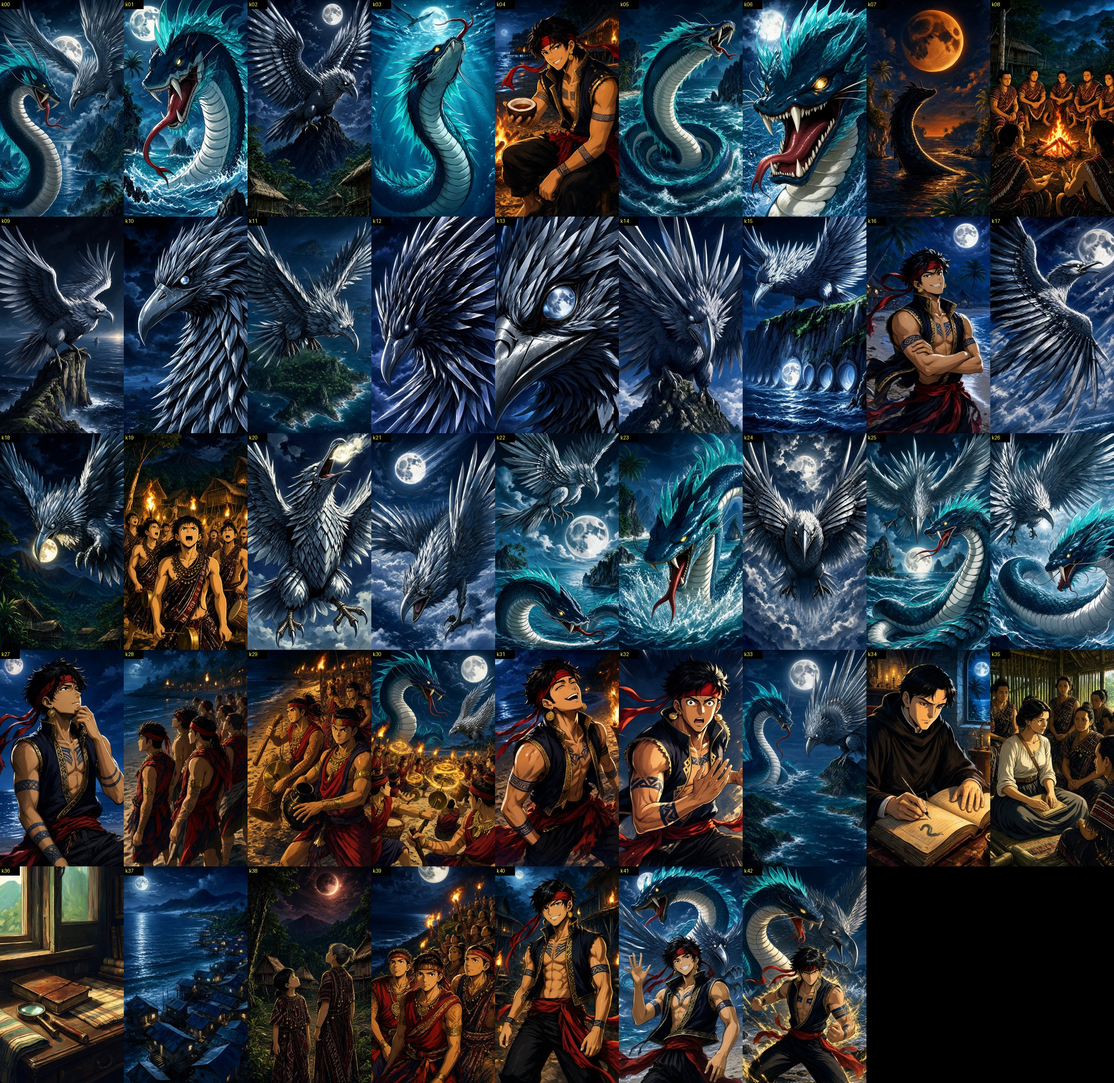
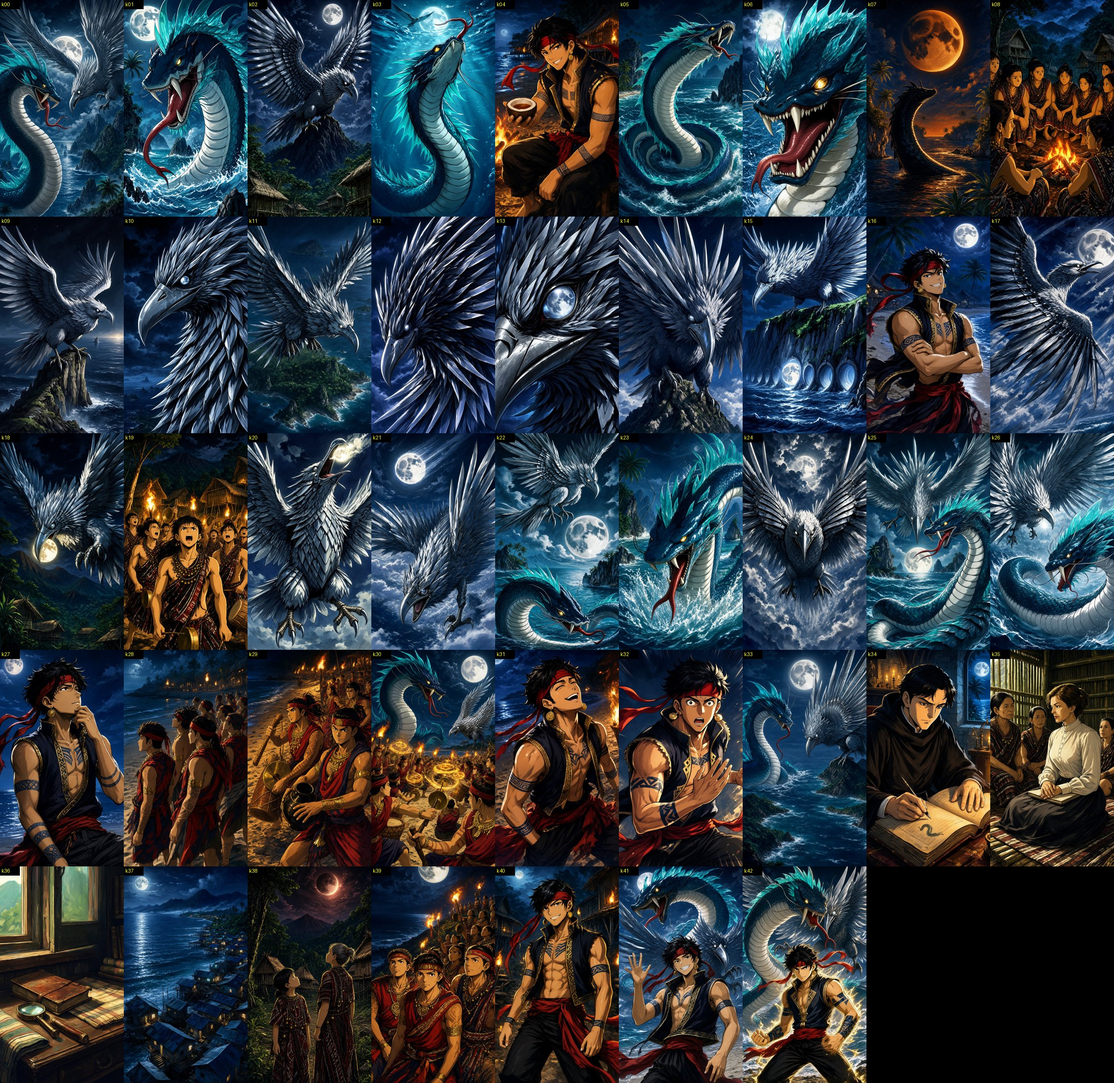
Bakunawa vs Minokawa: 'talang nahanap' line; redraw k08 (hands), k35 (Benedict in her forties), k42 (vest closed)
Claude-Session: https://claude.ai/code/session_014Q6Ynm6BeL4W54SBQGGVhB

Changed region(s): [[0.875, 0.5938, 1.0, 0.8125], [0.6562, 0.7812, 0.7812, 1.0], [0.875, 0.0, 1.0, 0.2188]]

diff --git a/history-indio/videos/bakunawa-vs-minokawa/facts.md b/history-indio/videos/bakunawa-vs-minokawa/facts.md
@@ -11,8 +11,8 @@ Sources were seen through web-search summaries (opened: false); primary texts (M
 | As large as an island; feathers as sharp as swords; eyes like mirrors; beak and claws of steel | as told in the recorded myth | https://en.wikipedia.org/wiki/Minokawa , https://abookofcreatures.com/2021/03/15/minokawa/ , https://mythlok.com/minokawa/ |
 | Lives beyond / at the eastern horizon; the moon has eight holes in the east and eight in the west to come out and go in, because the bird tries to catch her (the video: "para makatakas sa Minokawa") | as told | https://en.wikipedia.org/wiki/Minokawa , https://aswangproject.com/minokawa , https://abookofcreatures.com/2021/03/15/minokawa/ |
 | When the bird swallows the moon, people make loud noise; the bird looks down and opens its mouth, and the moon jumps out and runs away (video: "hanggang mapatingin ang ibon at maibuka ang tuka") | as told | https://en.wikipedia.org/wiki/Minokawa , https://aswangproject.com/minokawa , https://www.puertoparrot.com/articles/minokawa-mindanao-s-eater-of-the-sun-moon |
-| The Minokawa story was told by Bagobo tellers and recorded by the American anthropologist Laura Watson Benedict (fieldwork 1906-08), published in "Bagobo Myths", Journal of American Folk-Lore vol. 26, pp. 13-63, Jan-Mar 1913 | confirmed | https://en.wikipedia.org/wiki/Minokawa , https://aswangproject.com/minokawa , https://asianethnology.org/article/1771/download , https://archive.org/stream/jstor-534786 , https://www.amnh.org/explore/news-blogs/laura-watson-benedict |
-| No old tradition we read makes the Bakunawa and the Minokawa meet or fight (video: "Sa mga lumang talang nabasa namin, walang kuwentong nagtagpo sila") | none found in any source searched; the duel is the series' own "paano kung" | (absence: none of the sources above mention it) |
+| The Minokawa story was told by Bagobo tellers and recorded by the American anthropologist Laura Watson Benedict (fieldwork 1906-08), published in "Bagobo Myths", Journal of American Folk-Lore vol. 26, pp. 13-63, Jan-Mar 1913 | confirmed; Benedict lived 1861-1932 (AMNH), so she is drawn in her mid-forties | https://en.wikipedia.org/wiki/Minokawa , https://aswangproject.com/minokawa , https://asianethnology.org/article/1771/download , https://archive.org/stream/jstor-534786 , https://www.amnh.org/explore/news-blogs/laura-watson-benedict |
+| No old tradition we read makes the Bakunawa and the Minokawa meet or fight (video: "Sa mga talang nahanap namin, walang kuwentong nagtagpo sila.) | none found in any source searched; the duel is the series' own "paano kung" | (absence: none of the sources above mention it) |
 
 Not in the video on purpose: exact dictionary year; Benedict's travel year (1906 in one source, unchecked); the claim that the Minokawa would come down and eat people after the sun and moon (one family of retellings).
 Label for the caption and pinned comment: the duel is not part of any tradition; the Bagobo are a living people and this is their story as Benedict recorded it.
